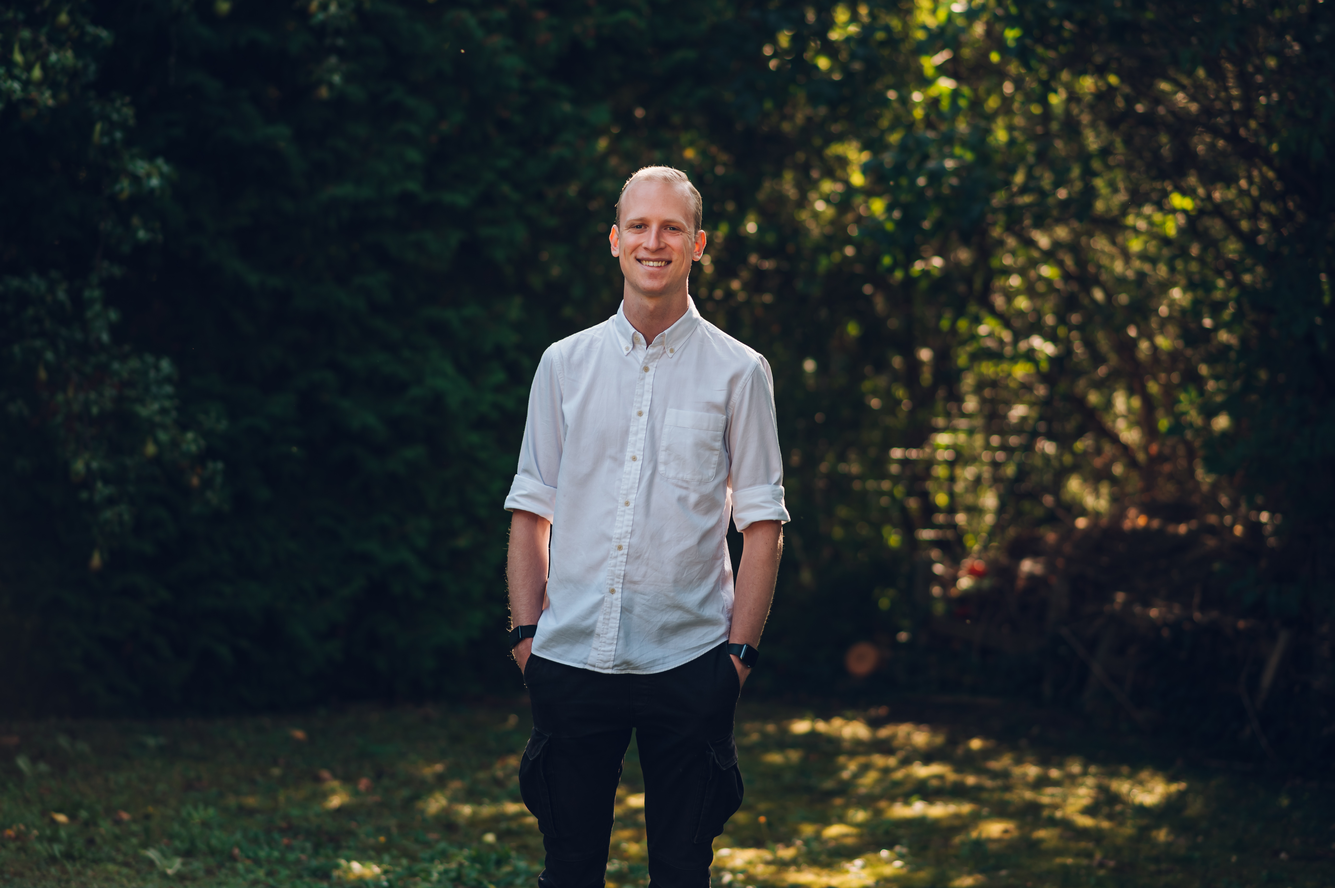
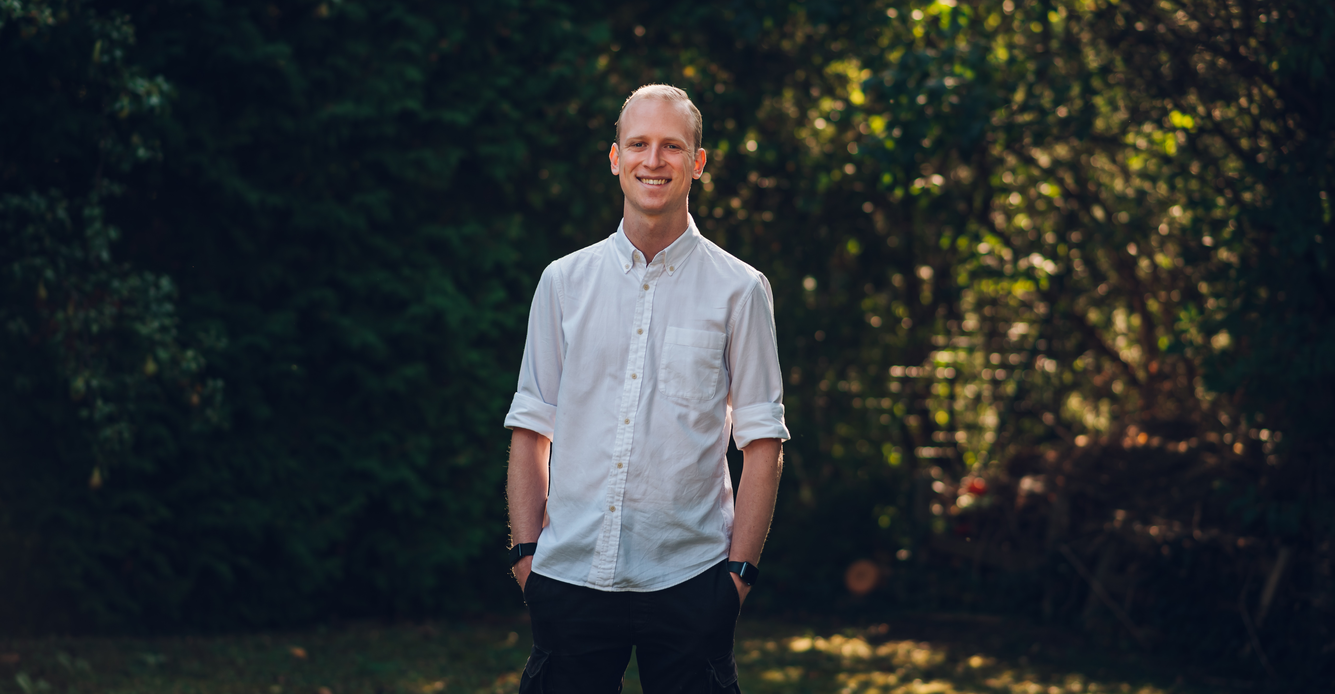
More

diff --git a/src/pages/index.js b/src/pages/index.js
@@ -1,5 +1,4 @@
 import React from "react";
-import timeout from "p-timeout";
 import { Flex, Box } from "rebass";
 import { ExternalLink as LinkExternal, ChevronRight } from "react-feather";
 import ConditionalWrap from "conditional-wrap";
@@ -24,6 +23,7 @@ import WideSection from "../../components/WideSection";
 import BlogPostCard from "../../components/BlogPostCard";
 import Head from "../../components/Head";
 import ViewMoreLink from "../../components/ViewMoreLink";
+import { BlogPostListItem } from "../../components/BlogPostListItem";
 import { DEFAULT_TITLE } from "../App";
 import type { OldBlogPost } from "../../data/blog-posts";
 
@@ -99,7 +99,24 @@ class Homepage extends React.Component<Props> {
         <ViewMoreLink href="/oss">
           View all
           <Icon>
-            <ChevronRight size="1em" />
+            <ChevronRight strokeWidth="3" size="1em" />
+          </Icon>
+        </ViewMoreLink>
+
+        <H2>Recent Blog Posts</H2>
+        {blogposts.slice(0, 4).map((post, index) => (
+          <BlogPostListItem
+            key={post.title}
+            small={false}
+            last={index === 3}
+            post={post}
+            webmentions
+          />
+        ))}
+        <ViewMoreLink mt={2} href="/thoughts">
+          View all
+          <Icon>
+            <ChevronRight strokeWidth="3" size="1em" />
           </Icon>
         </ViewMoreLink>
 
@@ -110,22 +127,7 @@ class Homepage extends React.Component<Props> {
         <ViewMoreLink href="/appearances">
           View all
           <Icon>
-            <ChevronRight size="1em" />
-          </Icon>
-        </ViewMoreLink>
-
-        <H2>Recent Blog Posts</H2>
-        <WideSection>
-          <CardGrid>
-            {blogposts.slice(0, 3).map((post, i) => (
-              <BlogPostCard key={post.title} post={post} />
-            ))}
-          </CardGrid>
-        </WideSection>
-        <ViewMoreLink href="/thoughts">
-          View more
-          <Icon>
-            <ChevronRight size="1em" />
+            <ChevronRight strokeWidth="3" size="1em" />
           </Icon>
         </ViewMoreLink>
       </Main>

diff --git a/src/pages/about.js b/src/pages/about.js
@@ -3,6 +3,8 @@ import { Mail } from "react-feather";
 import { StaticImage } from "gatsby-plugin-image";
 import Icon from "../../components/Icon";
 import PageHeader from "../../components/PageHeader";
+import WideSection from "../../components/WideSection";
+import { H2 } from "../../components/Heading";
 import Paragraph from "../../components/Paragraph";
 import Blockquote, { Cite } from "../../components/Blockquote";
 import Head from "../../components/Head";
@@ -13,21 +15,42 @@ import { TextButton } from "../../components/Button";
 
 export default () => (
   <>
-    <PageHeader title="About Me" mb={0}>
+    <PageHeader title="" mb={0}>
       <Head
         title="About Me – Max Stoiber (@mxstbr)"
         description="Who is Max Stoiber? "
       />
     </PageHeader>
 
-    <Paragraph>
+    <WideSection>
       <StaticImage
         src="../me.jpg"
         alt="Max standing in a garden"
-        style={{ width: `100%`, borderRadius: `5px` }}
-        imgStyle={{ width: `100%`, borderRadius: `5px` }}
+        layout="fluid"
+        maxWidth="100%"
+        imgStyle={{ borderRadius: `5px` }}
+        style={{ borderRadius: `5px` }}
       />
+    </WideSection>
+
+    <H2>About me</H2>
+
+    <Paragraph>
+      Hey, I'm Max! I currently work at{" "}
+      <Link href="https://gatsbyjs.com">Gatsby</Link>, making it easier to build
+      websites with React. Before that I was at{" "}
+      <Link href="https://github.com">GitHub</Link>, architecting a greenfield
+      React app, who acquired my startup{" "}
+      <Link href="https://spectrum.chat">Spectrum</Link> in Nov
     </Paragraph>
-    <Paragraph>👋 I'm a JavaScript engineer from Vienna, Austria. </Paragraph>
+
+    <Paragraph>
+      I was born and raised in a small town just outside of Vienna, Austria
+      called Mödling. After graduating from the{" "}
+      <Link href="https://en.wikipedia.org/wiki/Sir-Karl-Popper-Schule">
+        Sir Karl Popper high school
+      </Link>{" "}
+      I tried
+    </Paragraph>
   </>
 );

diff --git a/components/BlogPostListItem.js b/components/BlogPostListItem.js
@@ -1,0 +1,56 @@
+import React from "react";
+import { css } from "styled-components";
+import fetch from "isomorphic-unfetch";
+import { parse, format } from "date-fns";
+import { Heading, Box } from "rebass";
+import { useStaticQuery, graphql } from "gatsby";
+import PageHeader from "./PageHeader";
+import Paragraph from "./Paragraph";
+import Link from "./Link";
+import Text from "./Text";
+import { H3, H4 } from "./Heading";
+import BlogPostCard from "./BlogPostCard";
+import { NewsletterUpsellCard } from "./NewsletterForm";
+import { ListDivider } from "./Lists";
+import blogposts from "../data/blog-posts";
+import WebMentionsCount from "./WebMentions/WebMentionCounts";
+import type { OldBlogPost } from "../data/blog-posts";
+
+export const BlogPostListItem = ({ post, small, last, webmentions }) => (
+  <Link
+    href={post.path}
+    mt={small ? 3 : 4}
+    pb={small ? 3 : 4}
+    css={css`
+      width: 100%;
+      display: block;
+      ${!last && "border-bottom: 2px solid rgba(0, 0, 0, 0.1);"} &:hover {
+        text-decoration: none;
+        ${Heading} {
+          text-decoration: underline;
+        }
+      }
+    `}
+  >
+    <H3 mt={0} fontSize={small ? 2 : 4} mb={2}>
+      {post.title}
+    </H3>
+    <Text
+      color="quaternary"
+      as="div"
+      css={{
+        height: "1em"
+      }}
+      fontSize={small ? 1 : 2}
+    >
+      {format(parse(post.publishedAt), "MMMM Do, YYYY")}
+      {typeof post.external === "string" && ` · ${post.external}`}
+      {webmentions === true && (
+        <>
+          <Box as="span" ml={3} />
+          <WebMentionsCount path={post.path} size="small" />
+        </>
+      )}
+    </Text>
+  </Link>
+);

diff --git a/src/pages/thoughts/index.js b/src/pages/thoughts/index.js
@@ -14,43 +14,8 @@ import { NewsletterUpsellCard } from "../../../components/NewsletterForm";
 import { ListDivider } from "../../../components/Lists";
 import blogposts from "../../../data/blog-posts";
 import WebMentionsCount from "../../../components/WebMentions/WebMentionCounts";
+import { BlogPostListItem } from "./../../../components/BlogPostListItem";
 import type { OldBlogPost } from "../../../data/blog-posts";
-
-const BlogPostListItem = ({ post, small, last, webmentions }) => (
-  <Link
-    href={post.path}
-    mt={small ? 3 : 4}
-    pb={small ? 3 : 4}
-    css={css`
-      display: block;
-      ${!last && "border-bottom: 2px solid rgba(0, 0, 0, 0.1);"} &:hover {
-        text-decoration: none;
-        ${Heading} {
-          text-decoration: underline;
-        }
-      }
-    `}
-  >
-    <H3 mt={0} fontSize={small ? 2 : 4} mb={2}>
-      {post.title}
-    </H3>
-    <Text
-      color="quaternary"
-      as="div"
-      css={{ height: "1em" }}
-      fontSize={small ? 1 : 2}
-    >
-      {format(parse(post.publishedAt), "MMMM Do, YYYY")}
-      {typeof post.external === "string" && ` · ${post.external}`}
-      {webmentions === true && (
-        <>
-          <Box as="span" ml={3} />
-          <WebMentionsCount path={post.path} size="small" />
-        </>
-      )}
-    </Text>
-  </Link>
-);
 
 export default () => {
   const data = useStaticQuery(graphql`

diff --git a/components/PageHeader.js b/components/PageHeader.js
@@ -8,7 +8,7 @@ import type { JsonLD } from "./JsonLD";
 type Props = {
   ...$Exact<RebassProps>,
   children: React$Node,
-  title: string,
+  title?: string,
   description?: string,
   image?: string,
   jsonld?: JsonLD
@@ -29,9 +29,11 @@ export default (props: Props) => (
       image={props.image}
       jsonld={props.jsonld}
     />
-    <H2 alignSelf="center" textAlign="center" mt={0}>
-      {props.title}
-    </H2>
+    {props.title && (
+      <H2 alignSelf="center" textAlign="center" mt={0}>
+        {props.title}
+      </H2>
+    )}
     {props.children}
   </Flex>
 );

diff --git a/components/ViewMoreLink.js b/components/ViewMoreLink.js
@@ -7,6 +7,7 @@ import Icon from "./Icon";
 import Link from "./Link";
 
 const ViewMoreLinkWrapper = styled(Box)`
+  color: ${p => p.theme.colors.blue};
   ${Icon} {
     transition: transform 50ms ease-in-out;
   }
@@ -22,9 +23,9 @@ type Props = {
 };
 
 const ViewMoreLink = (props: Props) => (
-  <ViewMoreLinkWrapper mt={4}>
+  <ViewMoreLinkWrapper mt={4} {...props}>
     <TextButton as={Link} href={props.href}>
-      <Text as="div" fontSize={2}>
+      <Text as="div" fontSize={2} color="blue">
         {props.children}
       </Text>
     </TextButton>
